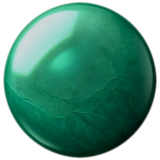
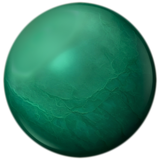
MÔRA ALIVE r2: Accessoires neu (Perlenring, Rauchquarz, Mondstein), Hintergrund Handy sichtbar, Stein weicher (#187)

Changed region(s): [[0.0, 0.0, 0.75, 0.6875], [0.125, 0.75, 0.25, 0.875], [0.25, 0.875, 0.3125, 0.9062]]

diff --git a/app/jade-mora.css b/app/jade-mora.css
@@ -7,7 +7,7 @@
 .jm__stone { position: absolute; inset: 0; display: block; border-radius: 50%; }
 .jm__img { position: absolute; inset: 0; width: 100%; height: 100%; display: block; user-select: none; filter: drop-shadow(0 calc(var(--d) * .05) calc(var(--d) * .08) rgba(0, 0, 0, .45)); }
 /* Inneres Licht: weich, von unten links, wie Licht, das durch Jade scheint. */
-.jm__light { position: absolute; inset: 4%; border-radius: 50%; background: radial-gradient(circle at 36% 74%, rgba(150, 232, 190, .2), rgba(150, 232, 190, 0) 52%); mix-blend-mode: screen; opacity: .85; }
+.jm__light { position: absolute; inset: 4%; border-radius: 50%; background: radial-gradient(circle at 36% 74%, rgba(150, 232, 190, .24), rgba(150, 232, 190, 0) 54%), radial-gradient(circle at 34% 28%, rgba(226, 250, 238, .1), rgba(226, 250, 238, 0) 40%); mix-blend-mode: screen; opacity: .85; }
 .jm__gold { position: absolute; inset: 0; width: 100%; height: 100%; overflow: visible; filter: drop-shadow(0 0 calc(var(--d) * .045) rgba(255, 186, 80, .55)); }
 .jm__rim-ln { fill: none; stroke-width: 2.1; }
 .jm__rim-in { fill: none; stroke: rgba(255, 222, 150, .35); stroke-width: 1.5; }
@@ -51,24 +51,18 @@
 
 /* Accessoires: eigene Ebenen */
 .jm__acc { position: absolute; display: block; transform: translate(-50%, -50%) rotate(var(--rot, 0deg)); }
-.jm__acc img { display: block; width: 100%; height: 100%; user-select: none; filter: drop-shadow(0 calc(var(--d) * .025) calc(var(--d) * .04) rgba(0, 0, 0, .4)); }
+.jm__acc img { display: block; width: 100%; height: 100%; user-select: none; filter: drop-shadow(0 calc(var(--d) * .02) calc(var(--d) * .035) rgba(0, 0, 0, .38)); }
 .jm__acc[data-part='back'] { clip-path: inset(0 0 50% 0); z-index: 0; }
 .jm__acc[data-part='front'][data-anim='orbit'] { clip-path: inset(50% 0 0 0); }
 .jm__acc[data-anim='orbit'] { animation: jm-ring 9s ease-in-out infinite; }
-.jm__acc[data-acc='prism-shard'] { animation: jm-prism 7s ease-in-out infinite; }
-.jm__acc[data-acc='celestial-charm'] { transform-origin: 50% 0; transform: translate(-50%, 0) rotate(0); margin-top: calc(var(--d) * -.04); animation: jm-sway 5s ease-in-out infinite; }
+.jm__acc[data-acc='smoky-quartz'] { animation: jm-prism 7s ease-in-out infinite; }
+.jm__acc[data-acc='moonstone-pendant'] { transform-origin: 50% 0; transform: translate(-50%, 0) rotate(0); margin-top: calc(var(--d) * -.04); animation: jm-sway 5s ease-in-out infinite; }
 @keyframes jm-ring { 0%, 100% { transform: translate(-50%, -50%) rotate(calc(var(--rot) - 1.5deg)); } 50% { transform: translate(-50%, -50%) rotate(calc(var(--rot) + 1.5deg)); } }
 @keyframes jm-prism { 0%, 100% { transform: translate(-50%, -50%) rotate(calc(var(--rot) - 4deg)) translateY(calc(var(--d) * -.015)); } 50% { transform: translate(-50%, -50%) rotate(calc(var(--rot) + 4deg)) translateY(calc(var(--d) * .02)); } }
 @keyframes jm-sway { 0%, 100% { transform: translate(-50%, 0) rotate(-4deg); } 50% { transform: translate(-50%, 0) rotate(4deg); } }
 .jm__chain { position: absolute; left: 0; top: 0; width: 100%; height: 100%; overflow: visible; }
-.jm__chain path { fill: none; stroke: rgba(222, 184, 110, .85); stroke-width: .006; stroke-linecap: round; }
-/* Goldperle läuft auf dem Ring (x und y gleich getaktet, y eine Viertelperiode versetzt): die Hälfte hinten wird per clip-path abgedeckt. */
-.jm__bead { position: absolute; left: 50%; top: 50%; width: 0; height: 0; animation: jm-bx 9s ease-in-out infinite alternate; --aw: calc(var(--d) * 1.62); }
-.jm__bead--y { left: 0; top: 0; animation: jm-by 9s ease-in-out infinite alternate; animation-delay: -4.5s; }
-.jm__bead--y::after { content: ''; position: absolute; width: calc(var(--d) * .05); height: calc(var(--d) * .05); margin: calc(var(--d) * -.025) 0 0 calc(var(--d) * -.025); border-radius: 50%; background: radial-gradient(circle at 35% 30%, #fff2c8, #d9ad5a 45%, #8c6a2a); box-shadow: 0 0 calc(var(--d) * .03) rgba(240, 200, 110, .5); }
-@keyframes jm-bx { from { transform: translateX(calc(var(--aw) * -.49)); } to { transform: translateX(calc(var(--aw) * .49)); } }
-@keyframes jm-by { from { transform: translateY(calc(var(--aw) * -.128)); } to { transform: translateY(calc(var(--aw) * .128)); } }
-
+.jm__chain path { fill: none; stroke: rgba(190, 198, 206, .92); stroke-width: .006; stroke-linecap: round; }
+/* Perle läuft auf dem Ring (x und y gleich getaktet, y eine Viertelperiode versetzt): die Hälfte hinten wird per clip-path abgedeckt. */
 @media (prefers-reduced-motion: reduce) {
   .jm *, .jm { animation: none !important; transition: none !important; }
 }

diff --git a/app/world.css b/app/world.css
@@ -160,7 +160,7 @@
 .wd-universe[data-hidden='true'] .wd-mora-line { display: none; }
 
 /* Finder = Universe (components/finderverse). Gleiche Farben wie das Universe, große ruhige Flächen. */
-.fv { position: fixed; inset: 0; z-index: 75; display: flex; flex-direction: column; color: var(--wd-text-base); background: linear-gradient(rgba(6, 8, 10, .42), rgba(6, 8, 10, .55)), url('/universe/deep-space-warm.jpg') center / cover; }
+.fv { position: fixed; inset: 0; z-index: 75; display: flex; flex-direction: column; color: var(--wd-text-base); background: linear-gradient(rgba(6, 8, 10, .26), rgba(6, 8, 10, .4)), url('/universe/deep-space-warm.jpg') center / cover; }
 .fv-top { display: flex; align-items: center; gap: 16px; padding: 18px 28px; }
 .fv-back, .fv-toggle button, .fv-btn, .fv-action, .fv-crumbs button { min-height: 44px; border-radius: var(--os-radius-pill); border: 1px solid var(--wd-line-strong); background: rgba(20, 22, 20, .62); color: inherit; cursor: pointer; font-size: var(--os-type-body-size); }
 .fv-back { display: inline-flex; align-items: center; gap: 8px; padding: 0 16px 0 12px; }
@@ -848,7 +848,7 @@ body:has(.wd-universe) .os-shell__topbar [class*='capsule'], body:has(.wd-univer
 /* bg-full 26.10. (Marius: "das Bild muss komplett hinten sein"): EIN Nebelbild über den ganzen Bildschirm,
    hinter Kopfzeile, Leisten und Dock. Shell-Flächen im Universe transparent, keine Kante mehr. */
 /* bg-fix: Nebel sitzt auf der fixen OS-Atmosphäre (vollflächig, ganz hinten); deren Farbschichten im Universe aus. */
-body:has(.wd-universe) .os-atmo { background: #07090c url('/universe/deep-space-warm.jpg') center / cover no-repeat !important; filter: brightness(.64) saturate(.52) sepia(.1) contrast(1.02); }
+body:has(.wd-universe) .os-atmo { background: #07090c url('/universe/deep-space-warm.jpg') center / cover no-repeat !important; filter: brightness(.8) saturate(.62) sepia(.08) contrast(1.04); }
 body:has(.wd-universe) .os-atmo > * { display: none !important; }
 body:has(.wd-universe) .os-root, body:has(.wd-universe) .os-shell, body:has(.wd-universe) .os-atmo__plate { background: transparent !important; }
 .wd-universe { background: transparent !important; }
@@ -912,7 +912,7 @@ html, body { margin: 0; width: 100%; height: 100%; overflow: hidden; }
 .os-root { position: fixed !important; inset: 0; }
 .os-shell { position: absolute !important; inset: 0; width: 100% !important; height: 100%; }
 .os-atmo { position: fixed !important; inset: 0 !important; width: auto !important; height: auto !important; background: #07090c url('/universe/deep-space-warm.jpg') center / cover no-repeat !important; filter: brightness(.55) saturate(.75) sepia(.12) contrast(1.02); }
-body:has(.wd-universe) .os-atmo { filter: brightness(.64) saturate(.52) sepia(.1) contrast(1.02); }
+body:has(.wd-universe) .os-atmo { filter: brightness(.8) saturate(.62) sepia(.08) contrast(1.04); }
 .os-atmo > * { display: none !important; }
 .os-root, .os-shell, .os-atmo__plate, .os-root[data-look='kosmos'] .os-shell__content, .os-shell__content { background: transparent !important; }
 .os-shell__topbar { background: transparent !important; box-shadow: none !important; }
@@ -1247,3 +1247,10 @@ body:has(.wd-universe[data-view='glass']) .os-shell__topbar { position: relative
 .glass-orb__ring--rnd { --ring-a: #d9b46a; --ring-b: #ffe9b0; --ring-glow: rgba(255, 214, 140, .7); }
 .glass-orb__ring--roadmap { --ring-a: #9db8e8; --ring-b: #eaf1ff; --ring-glow: rgba(170, 200, 255, .65); }
 .glass-orb__ring--research { --ring-a: #8fd8c0; --ring-b: #e6fff4; --ring-glow: rgba(150, 240, 205, .6); }
+
+/* Hochformat (Handy): das Bild ist 16:9, 'cover' schneidet sonst nur die dunkle Mitte aus (Handy-Shots fast schwarz).
+   Der helle Nebel links bleibt sichtbar; die fixe OS-Atmosphäre trägt das Bild (siehe bg-fix oben), .fv das des geöffneten Planeten. */
+@media (max-width: 899px) and (max-aspect-ratio: 1/1) {
+  body:has(.wd-universe) .os-atmo { background-size: auto 118% !important; background-position: 3% 70% !important; filter: brightness(.9) saturate(.7) sepia(.08) contrast(1.04); }
+}
+.fv[data-phone='true'] { background: linear-gradient(rgba(6, 8, 10, .18), rgba(6, 8, 10, .34)), url('/universe/deep-space-warm.jpg') 3% 70% / auto 118% no-repeat #07090c; }

diff --git a/__tests__/lib/mora/accessoryAdapter.test.ts b/__tests__/lib/mora/accessoryAdapter.test.ts
@@ -7,7 +7,7 @@ const pub = (p: string) => path.join(process.cwd(), 'public', p);
 
 describe('accessoryAdapter (Jade)', () => {
   it('hat drei Demonstratoren, jeder mit Datei, Slot und Trait-Eintrag', () => {
-    expect(Object.keys(JADE_MOUNTS).sort()).toEqual(['celestial-charm', 'gold-orbit', 'prism-shard']);
+    expect(Object.keys(JADE_MOUNTS).sort()).toEqual(['moonstone-pendant', 'pearl-ring', 'smoky-quartz']);
     for (const m of Object.values(JADE_MOUNTS)) {
       expect(fs.existsSync(pub(m.asset))).toBe(true);
       const slot = TRAITS.slots.find((s) => s.id === m.slot)!;
@@ -19,23 +19,23 @@ describe('accessoryAdapter (Jade)', () => {
   });
   it('erfindet keine NFT-Daten', () => {
     for (const m of Object.values(JADE_MOUNTS)) expect(m.nftMetadata).toBeUndefined();
-    expect(mountAttributes(JADE_MOUNTS['gold-orbit'])).toEqual([{ trait_type: 'Leuchten', value: 'Goldorbit' }]);
+    expect(mountAttributes(JADE_MOUNTS['pearl-ring'])).toEqual([{ trait_type: 'Leuchten', value: 'Perlenring' }]);
   });
   it('zeichnet gewählte Teile als Ebenen und lässt Pixel-Altstücke aus', () => {
-    const w = normalizeWardrobe({ aura: 'gold-orbit', neck: 'celestial-charm', head: 'beanie' });
-    expect(jadeMounts(w).map((m) => m.id)).toEqual(['gold-orbit', 'celestial-charm']);
+    const w = normalizeWardrobe({ aura: 'pearl-ring', neck: 'moonstone-pendant', head: 'beanie' });
+    expect(jadeMounts(w).map((m) => m.id)).toEqual(['pearl-ring', 'moonstone-pendant']);
     expect(jadeMounts(DEFAULT_WARDROBE)).toEqual([]);
   });
   it('trägt höchstens ein Halsstück', () => {
-    const w = normalizeWardrobe({ neck: 'celestial-charm' });
+    const w = normalizeWardrobe({ neck: 'moonstone-pendant' });
     expect(jadeMounts(w).filter((m) => m.slot === 'neck')).toHaveLength(1);
     const swapped = { ...w, neck: 'scarf' };
     expect(jadeMounts(swapped).filter((m) => m.slot === 'neck')).toHaveLength(0);
     expect(legacyWorn(swapped)).toContain('neck/scarf');
   });
   it('Jade-Teile haben kein Pixel-Sprite und zählen weiter zur Accessoire-Grenze', () => {
-    const w = normalizeWardrobe({ aura: 'gold-orbit', held: 'prism-shard', neck: 'celestial-charm' });
-    expect(wardrobeLayers(w).map((l: { src: string }) => l.src).join()).not.toMatch(/gold-orbit|prism-shard|celestial-charm/);
+    const w = normalizeWardrobe({ aura: 'pearl-ring', held: 'smoky-quartz', neck: 'moonstone-pendant' });
+    expect(wardrobeLayers(w).map((l: { src: string }) => l.src).join()).not.toMatch(/pearl-ring|smoky-quartz|moonstone-pendant/);
     const kept = limitAccessories(w, ['neck', 'held', 'aura']);
     expect(visibleAccessories(kept).length).toBeLessThanOrEqual(2);
   });

diff --git a/lib/mora/accessoryAdapter.ts b/lib/mora/accessoryAdapter.ts
@@ -23,10 +23,10 @@ export type MountLayer = 'front' | 'back' | 'ring';
 export type MountAnimation = 'orbit' | 'float' | 'sway' | 'none';
 
 export type AccessoryMount = {
-  /** Trait-ID im Slot (mora-traits.json), z. B. 'gold-orbit'. */
+  /** Trait-ID im Slot (mora-traits.json), z. B. 'pearl-ring'. */
   id: string;
   slot: string;
-  /** Bilddatei (PNG mit Alpha, später auch NFT-Bild). */
+  /** Bilddatei (SVG oder PNG mit Alpha, später auch NFT-Bild). */
   asset: string;
   /** Seitenverhältnis Breite / Höhe der Datei. */
   aspect: number;
@@ -45,19 +45,22 @@ export type AccessoryMount = {
   nftMetadata?: NftMetadata;
 };
 
-/** Drei Demonstratoren (frei, keine echten NFTs). Weitere Teile kommen als Eintrag hinzu. */
+/**
+ * Drei Demonstratoren (frei, keine echten NFTs), je mit eigenem Material: Perle/Elfenbein, Rauchquarz, Mondstein in oxidiertem Silber.
+ * Die Teile sind gezeichnete SVG-Ebenen (scharf bei jeder Größe). Weitere Teile kommen als Eintrag hinzu.
+ */
 export const JADE_MOUNTS: Record<string, AccessoryMount> = {
-  'gold-orbit': {
-    id: 'gold-orbit', slot: 'aura', asset: '/mora/jade/acc/gold-orbit.png', aspect: 960 / 260,
-    anchor: { x: 0, y: 0.1 }, scale: 1.62, rotate: -9, layer: 'ring', animation: 'orbit',
+  'pearl-ring': {
+    id: 'pearl-ring', slot: 'aura', asset: '/mora/jade/acc/pearl-ring.svg', aspect: 960 / 260,
+    anchor: { x: 0, y: 0.1 }, scale: 1.5, rotate: -9, layer: 'ring', animation: 'orbit',
   },
-  'prism-shard': {
-    id: 'prism-shard', slot: 'held', asset: '/mora/jade/acc/prism-shard.png', aspect: 300 / 752,
-    anchor: { x: 0.8, y: -0.1 }, scale: 0.2, rotate: 14, layer: 'front', animation: 'float',
+  'smoky-quartz': {
+    id: 'smoky-quartz', slot: 'held', asset: '/mora/jade/acc/smoky-quartz.svg', aspect: 300 / 752,
+    anchor: { x: 0.62, y: 0.4 }, scale: 0.15, rotate: 18, layer: 'front', animation: 'float',
   },
-  'celestial-charm': {
-    id: 'celestial-charm', slot: 'neck', asset: '/mora/jade/acc/celestial-charm.png', aspect: 260 / 594,
-    anchor: { x: 0, y: 0.5 }, scale: 0.15, layer: 'front', animation: 'sway', chain: true,
+  'moonstone-pendant': {
+    id: 'moonstone-pendant', slot: 'neck', asset: '/mora/jade/acc/moonstone-pendant.svg', aspect: 200 / 288,
+    anchor: { x: 0, y: 0.5 }, scale: 0.13, layer: 'front', animation: 'sway', chain: true,
   },
 };
 

diff --git a/components/world/JadeMora.tsx b/components/world/JadeMora.tsx
@@ -34,7 +34,6 @@ function Mount({ m, part }: { m: AccessoryMount; part: 'back' | 'front' }) {
   return (
     <span className="jm__acc" data-acc={m.id} data-anim={m.animation} data-part={ring ? part : undefined} style={style}>
       {img}
-      {m.id === 'gold-orbit' ? <><i className="jm__bead jm__bead--x"><i className="jm__bead jm__bead--y" /></i></> : null}
     </span>
   );
 }
